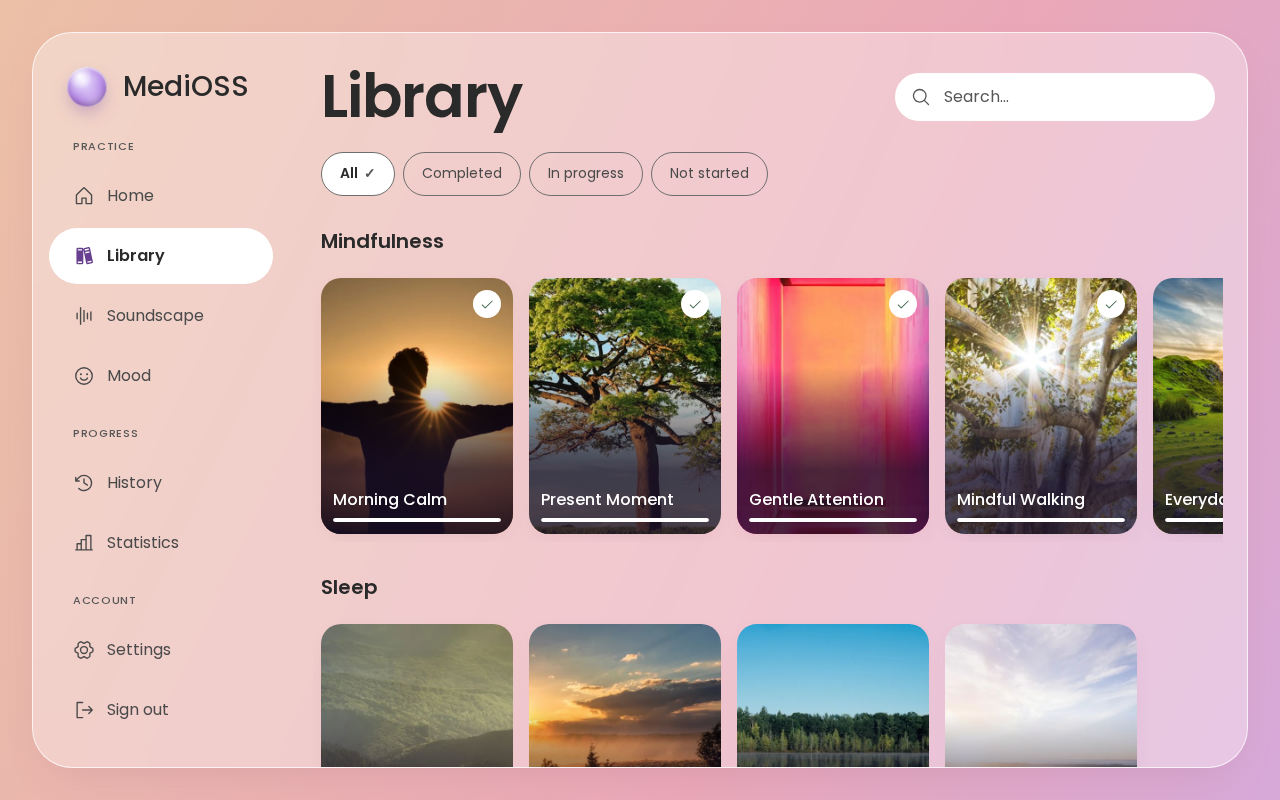
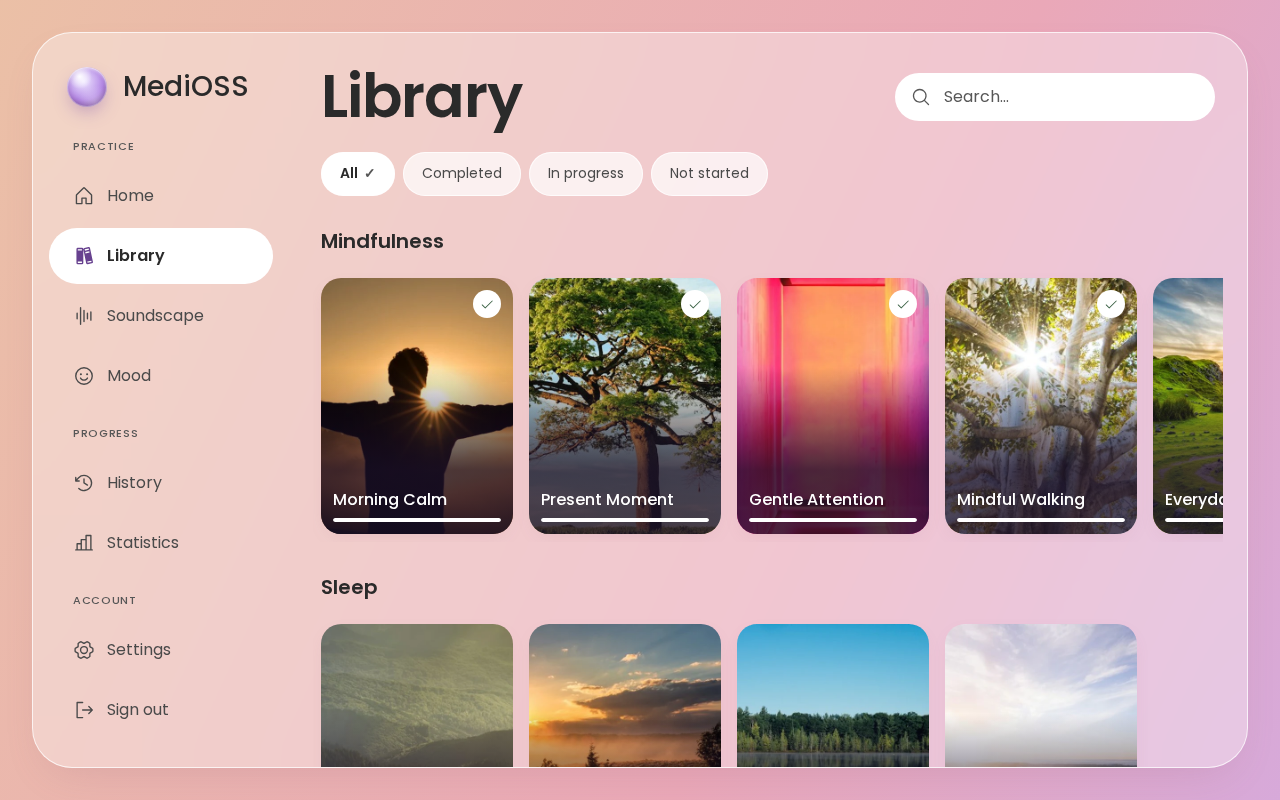
feat(web-ui): apply glass-control to every interactive control (Efe E1/E2)
The glass-control utility and --surface-control tokens shipped in
#26 but no component used them — chips, inputs, selects, textarea,
toggle, checkbox, popover trigger and the mood stops kept their flat
white fill. Apply the utility everywhere, and composite the control
fill over every surface in the contrast tests so text on the new
glass is proven >= 4.5:1.

Changed region(s): [[0.3125, 0.1875, 0.625, 0.25]]

diff --git a/src/apps/web-ui/src/lib/components/ui/chip-group/chip-group.svelte b/src/apps/web-ui/src/lib/components/ui/chip-group/chip-group.svelte
@@ -45,10 +45,10 @@
       {@const selected = value === option.value}
       <label
         class={cn(
-          "relative inline-flex min-h-11 min-w-11 max-w-full cursor-pointer items-center justify-center gap-1.5 rounded-full border border-control-border px-4.5 py-1 text-center text-sm break-words [&_svg]:shrink-0 leading-tight select-none has-focus-visible:outline-2 has-focus-visible:outline-offset-2 has-focus-visible:outline-accent-strong motion-safe:transition-colors motion-safe:duration-(--duration-fast)",
+          "glass-control relative inline-flex min-h-11 min-w-11 max-w-full cursor-pointer items-center justify-center gap-1.5 rounded-full px-4.5 py-1 text-center text-sm break-words [&_svg]:shrink-0 leading-tight select-none has-focus-visible:outline-2 has-focus-visible:outline-offset-2 has-focus-visible:outline-accent-strong motion-safe:transition-colors motion-safe:duration-(--duration-fast)",
           selected
-            ? "bg-surface-solid font-semibold text-ink-strong"
-            : "bg-transparent font-normal text-ink-body hover:bg-surface-solid/50",
+            ? "glass-control-active font-semibold text-ink-strong"
+            : "font-normal text-ink-body hover:bg-surface-solid/50",
         )}
       >
         <input

diff --git a/src/apps/web-ui/src/styles/global-css-contrast.test.ts b/src/apps/web-ui/src/styles/global-css-contrast.test.ts
@@ -109,6 +109,10 @@ for (let i = 0; i < canvasStops.length; i++) {
 
 type Surface = { name: string; rgb: Rgb };
 
+function allSurfacesSoFar(out: Surface[]): Surface[] {
+  return [...out];
+}
+
 function surfaces(): Surface[] {
   const out: Surface[] = [];
   const shell = color("--surface-shell");
@@ -139,6 +143,19 @@ function surfaces(): Surface[] {
   out.push({
     name: "surface-panel-opaque",
     rgb: opaque("--surface-panel-opaque"),
+  });
+  // The glass-control fill over every canvas and surface: controls sit on
+  // the shell and panels, so their translucent white lands on all of it.
+  const control = color("--surface-control");
+  for (const base of allSurfacesSoFar(out)) {
+    out.push({
+      name: `surface-control over ${base.name}`,
+      rgb: over(control, base.rgb),
+    });
+  }
+  out.push({
+    name: "surface-control-opaque",
+    rgb: opaque("--surface-control-opaque"),
   });
   out.push({
     name: "accent-soft over surface-solid",
@@ -200,6 +217,8 @@ describe("global.css parser guard", () => {
       "--surface-shell",
       "--surface-panel",
       "--surface-solid",
+      "--surface-control",
+      "--surface-control-opaque",
     ]) {
       expect(() => color(name)).not.toThrow();
     }

diff --git a/src/apps/web-ui/src/lib/components/ui/input/input.svelte b/src/apps/web-ui/src/lib/components/ui/input/input.svelte
@@ -34,7 +34,7 @@
 
   const classes = $derived(
     cn(
-      "focus-ring h-12 w-full min-w-0 rounded-full border border-control-border bg-surface-solid px-5 text-base text-ink-strong placeholder:text-ink-muted aria-invalid:border-destructive disabled:cursor-not-allowed disabled:opacity-60 file:mr-3 file:border-0 file:bg-transparent file:py-3 file:text-sm file:font-medium file:text-ink-strong",
+      "glass-control focus-ring h-12 w-full min-w-0 rounded-full px-5 text-base text-ink-strong placeholder:text-ink-muted aria-invalid:border-destructive disabled:cursor-not-allowed disabled:opacity-60 file:mr-3 file:border-0 file:bg-transparent file:py-3 file:text-sm file:font-medium file:text-ink-strong",
       className,
     ),
   );

diff --git a/src/apps/web-ui/src/lib/components/ui/textarea/textarea.svelte b/src/apps/web-ui/src/lib/components/ui/textarea/textarea.svelte
@@ -40,7 +40,7 @@
   bind:this={ref}
   data-slot="textarea"
   class={cn(
-    "focus-ring block min-h-12 w-full min-w-0 resize-none overflow-hidden border border-control-border bg-surface-solid px-5 py-3 text-base leading-6 text-ink-strong placeholder:text-ink-muted aria-invalid:border-destructive disabled:cursor-not-allowed disabled:opacity-60",
+    "glass-control focus-ring block min-h-12 w-full min-w-0 resize-none overflow-hidden rounded-panel px-5 py-3 text-base leading-6 text-ink-strong placeholder:text-ink-muted aria-invalid:border-destructive disabled:cursor-not-allowed disabled:opacity-60",
     multiline ? "rounded-panel" : "rounded-full",
     className,
   )}

diff --git a/src/apps/web-ui/src/lib/components/filters/range-popover.svelte b/src/apps/web-ui/src/lib/components/filters/range-popover.svelte
@@ -99,7 +99,7 @@
   <Popover.Trigger
     aria-label={t(m.triggerLabel, { range: currentLabel })}
     class={cn(
-      "focus-ring inline-flex min-h-11 max-w-full items-center gap-2 rounded-full border border-control-border bg-surface-solid px-4.5 py-1 text-sm font-medium text-ink-strong motion-safe:transition-colors motion-safe:duration-(--duration-fast)",
+      "glass-control focus-ring inline-flex min-h-11 max-w-full items-center gap-2 rounded-full px-4.5 py-1 text-sm font-medium text-ink-strong motion-safe:transition-colors motion-safe:duration-(--duration-fast)",
       className,
     )}
   >

diff --git a/src/apps/web-ui/src/lib/components/ui/checkbox/checkbox.svelte b/src/apps/web-ui/src/lib/components/ui/checkbox/checkbox.svelte
@@ -39,7 +39,7 @@
       "inline-flex size-6 shrink-0 items-center justify-center rounded-md border text-primary-foreground peer-focus-visible:outline-2 peer-focus-visible:outline-offset-2 peer-focus-visible:outline-accent-strong motion-safe:transition-colors motion-safe:duration-(--duration-fast)",
       checked
         ? "border-accent-fill bg-accent-fill"
-        : "border-control-border bg-surface-solid",
+        : "glass-control",
     )}
   >
     {#if checked}

diff --git a/src/apps/web-ui/src/lib/components/mood/score-selector.svelte b/src/apps/web-ui/src/lib/components/mood/score-selector.svelte
@@ -143,10 +143,7 @@
                       "border-transparent text-primary-foreground shadow-md motion-safe:scale-110",
                       MOOD_FILL[score],
                     )
-                  : cn(
-                      "border-control-border bg-surface-solid",
-                      MOOD_TEXT[score],
-                    ),
+                  : cn("glass-control", MOOD_TEXT[score]),
               )}
             >
               {score}

diff --git a/src/apps/web-ui/src/lib/components/ui/toggle/toggle.svelte b/src/apps/web-ui/src/lib/components/ui/toggle/toggle.svelte
@@ -48,7 +48,7 @@
       "relative inline-flex h-7 w-12 shrink-0 items-center rounded-full border peer-focus-visible:outline-2 peer-focus-visible:outline-offset-2 peer-focus-visible:outline-accent-strong motion-safe:transition-colors motion-safe:duration-(--duration-fast)",
       checked
         ? "border-accent-fill bg-accent-fill"
-        : "border-control-border bg-surface-solid",
+        : "glass-control",
     )}
   >
     <span

diff --git a/src/apps/web-ui/src/lib/screens/admin/native-select.svelte b/src/apps/web-ui/src/lib/screens/admin/native-select.svelte
@@ -19,7 +19,7 @@
 <select
   bind:value
   class={cn(
-    "focus-ring h-12 w-full min-w-0 rounded-full border border-control-border bg-surface-solid px-5 text-base text-ink-strong disabled:cursor-not-allowed disabled:opacity-60",
+    "glass-control focus-ring h-12 w-full min-w-0 rounded-full px-5 text-base text-ink-strong disabled:cursor-not-allowed disabled:opacity-60",
     className,
   )}
   {...restProps}
